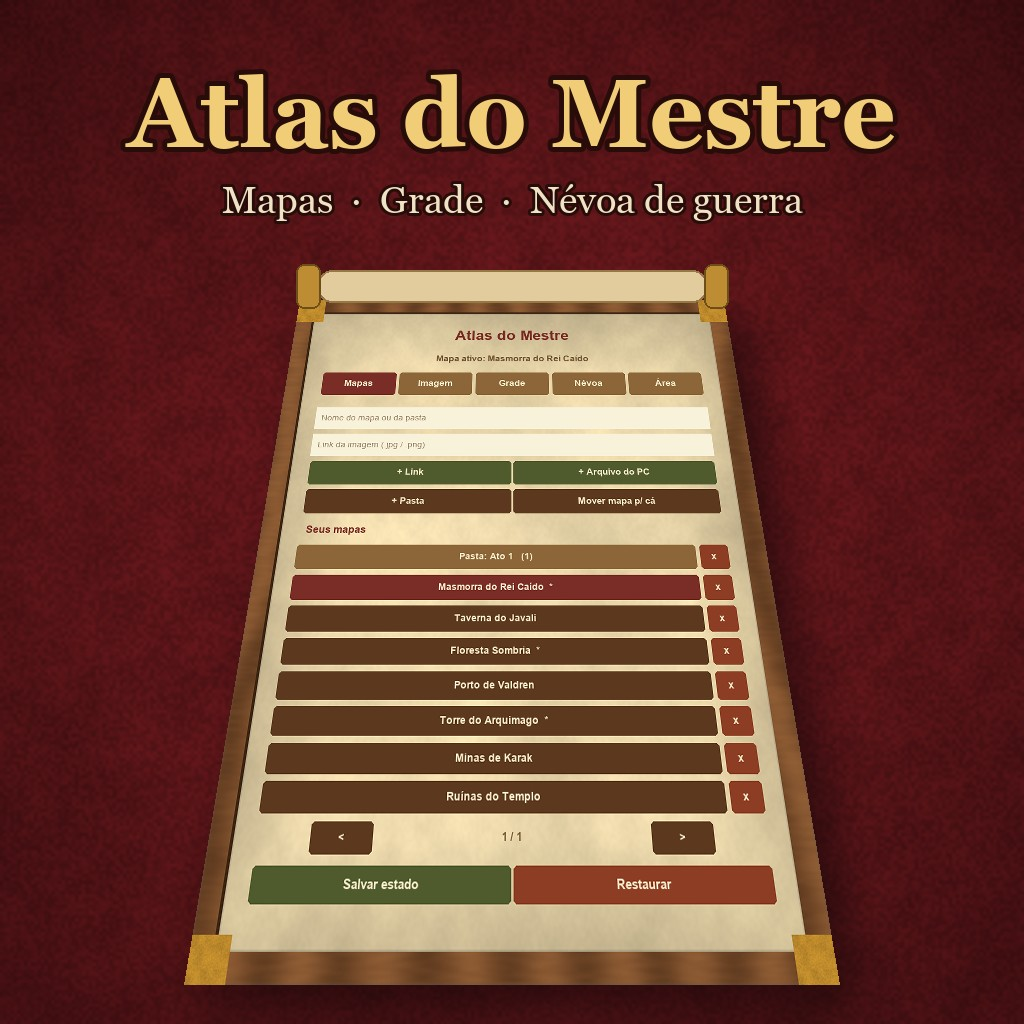
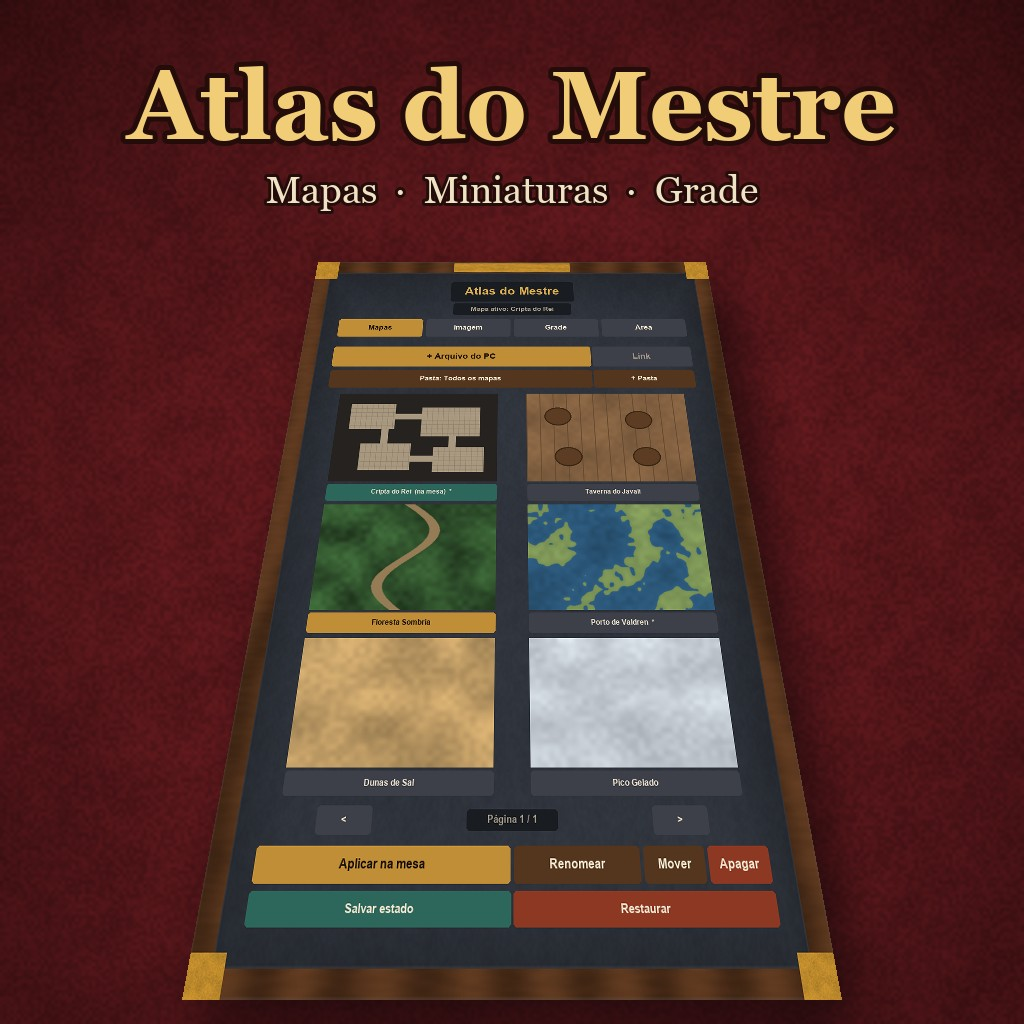
Capas da Workshop refeitas com o visual da v4 (PT e EN)

diff --git a/tools/gerar_capa.py b/tools/gerar_capa.py
@@ -1,7 +1,8 @@
-"""Gera assets/capa.jpg: a imagem de capa da Steam Workshop (1024 x 1024).
+"""Gera as capas da Steam Workshop (1024 x 1024): assets/capa.jpg (pt) e assets/cover_en.jpg (en).
 
 Uso: python tools/gerar_capa.py [pt|en]   (precisa de pillow, numpy e lupa)
-A placa é desenhada a partir do layout real de Atlas.lua (mesmos botões, cores e posições).
+A placa é desenhada a partir do layout real de Atlas.lua: mesmos botões, cores, posições e miniaturas.
+As imagens de mapa nas miniaturas são exemplos gerados aqui, só para a capa.
 """
 import sys
 from pathlib import Path
@@ -14,7 +15,7 @@ ROOT = Path(__file__).resolve().parent.parent
 LANG = sys.argv[1] if len(sys.argv) > 1 else "pt"
 SIZE = 1024
 FONTS = Path("C:/Windows/Fonts")
-rng = np.random.default_rng(3)
+INNER_W, INNER_D, RIM = 10.0, 15.0, 0.4
 
 
 def font(name, size):
@@ -24,137 +25,152 @@ def font(name, size):
         return ImageFont.load_default()
 
 
-def noise(h, w, cy, cx):
+def noise(rng, h, w, cy, cx):
     small = (rng.random((cy, cx)) * 255).astype(np.uint8)
     return np.asarray(Image.fromarray(small).resize((w, h), Image.BICUBIC), np.float32) / 255
 
 
-# ---------------------------------------------------------------- placa vista de cima
+# ---------------------------------------------------------------- mapas de exemplo
+def sample_map(seed, kind, w=360, h=240):
+    rng = np.random.default_rng(seed)
+    n = noise(rng, h, w, 5, 7) * 0.7 + noise(rng, h, w, 24, 34) * 0.3
+    if kind == "dungeon":
+        img = np.zeros((h, w, 3), np.float32) + np.array([38, 34, 32], np.float32)
+        im = Image.fromarray(img.astype(np.uint8)); d = ImageDraw.Draw(im)
+        rooms = [(30, 30, 130, 100), (190, 40, 320, 120), (60, 140, 170, 210), (220, 150, 330, 215)]
+        for x0, y0, x1, y1 in rooms:
+            d.rectangle([x0, y0, x1, y1], fill=(168, 152, 128))
+            for gx in range(x0, x1, 12):
+                d.line([gx, y0, gx, y1], fill=(140, 126, 104))
+            for gy in range(y0, y1, 12):
+                d.line([x0, gy, x1, gy], fill=(140, 126, 104))
+        for a, b in [((130, 65), (190, 65)), ((110, 100), (110, 140)), ((260, 120), (260, 150)), ((170, 180), (220, 180))]:
+            d.line([a, b], fill=(168, 152, 128), width=16)
+        return im
+    if kind == "sea":
+        land = n > 0.55
+        img = np.where(land[..., None], np.array([118, 140, 82]) * (0.8 + 0.4 * n[..., None]),
+                       np.array([46, 92, 128]) * (0.8 + 0.4 * n[..., None]))
+    elif kind == "forest":
+        img = np.array([52, 88, 48]) * (0.6 + 0.7 * n[..., None])
+        path = np.abs(np.linspace(-1, 1, w)[None, :] - 0.3 * np.sin(np.linspace(0, 6, h))[:, None]) < 0.06
+        img[path] = [150, 124, 86]
+    elif kind == "desert":
+        img = np.array([196, 160, 104]) * (0.8 + 0.35 * n[..., None])
+    elif kind == "snow":
+        img = np.array([214, 222, 230]) * (0.8 + 0.25 * n[..., None])
+    else:  # taverna / cidade
+        img = np.array([132, 98, 66]) * (0.85 + 0.25 * n[..., None])
+        im = Image.fromarray(np.clip(img, 0, 255).astype(np.uint8)); d = ImageDraw.Draw(im)
+        for i in range(0, w, 30):
+            d.line([i, 0, i, h], fill=(104, 76, 50), width=2)
+        for x0, y0 in [(40, 40), (220, 50), (60, 150), (230, 150)]:
+            d.ellipse([x0, y0, x0 + 60, y0 + 50], fill=(92, 60, 34), outline=(60, 40, 22), width=3)
+        return im
+    return Image.fromarray(np.clip(img, 0, 255).astype(np.uint8)).filter(ImageFilter.SMOOTH)
+
+
+# ---------------------------------------------------------------- placa a partir do layout real
 def board_image(px=80):
     L = lupa.LuaRuntime()
-    L.execute('''BTNS = {}
+    L.execute('''BTNS = {}; DECALS = {}
     self = { getScale=function() return {x=1,y=1,z=1} end, getCustomObject=function() return {mesh="m"} end,
-      createButton=function(t) t.kind="b"; table.insert(BTNS,t) end,
-      createInput=function(t) t.kind="i"; table.insert(BTNS,t) end,
-      clearButtons=function() BTNS={} end, clearInputs=function() end }
+      createButton=function(t) table.insert(BTNS,t) end, clearButtons=function() BTNS={} end,
+      setDecals=function(d) DECALS=d end }
     function getObjectsWithTag() return {} end
     Global={setVectorLines=function() end}; Grid={}''')
     L.execute((ROOT / "Atlas.lua").read_text(encoding="utf-8"))
     names = {
-        "pt": ["Masmorra do Rei Caído", "Taverna do Javali", "Floresta Sombria", "Porto de Valdren",
-               "Torre do Arquimago", "Minas de Karak", "Ruínas do Templo"],
-        "en": ["Fallen King's Crypt", "Boar's Head Tavern", "Shadow Forest", "Port of Valdren",
-               "Archmage's Tower", "Mines of Karak", "Temple Ruins"],
+        "pt": ["Cripta do Rei", "Taverna do Javali", "Floresta Sombria", "Porto de Valdren", "Dunas de Sal", "Pico Gelado"],
+        "en": ["King's Crypt", "Boar's Head Tavern", "Shadow Forest", "Port of Valdren", "Salt Dunes", "Frozen Peak"],
     }[LANG]
-    folder = "Ato 1" if LANG == "pt" else "Act 1"
-    L.execute(f'''D.lang = "{LANG}"
-    D.folders = {{"{folder}"}}
-    D.maps = {{ {{name="{names[0]}", url="x", fit="caber", saved={{}}}},
-               {{name="{names[1]}", url="x", fit="mesa"}},
-               {{name="{names[2]}", url="x", fit="mesa", saved={{}}}},
-               {{name="{names[3]}", url="x", fit="mesa"}},
-               {{name="{names[4]}", url="x", fit="mesa", saved={{}}}},
-               {{name="{names[5]}", url="x", fit="mesa"}},
-               {{name="{names[6]}", url="x", fit="mesa"}},
-               {{name="x", url="x", fit="mesa", folder="{folder}"}} }}
-    D.current = 1; S.tab = "mapas"; build()''')
+    maps = ",".join(f'{{name="{n}", url="u{i}", fit="mesa"{", saved={}" if i in (0, 3) else ""}}}'
+                    for i, n in enumerate(names))
+    L.execute(f'D.lang = "{LANG}"; D.maps = {{ {maps} }}; D.current = 1; S.sel = 3; S.tab = "mapas"; build()')
 
-    inner_w, inner_d, rim = 9.0, 11.8, 0.4
-    W, H = int((inner_w + 2 * rim) * px), int((inner_d + 2 * rim) * px)
     tex = Image.open(ROOT / "assets" / "atlas.png").convert("RGB")
     t = tex.width
+    leather = tex.crop((int(0.02 * t), int(0.02 * t), int(0.48 * t), int(0.48 * t)))
     wood = tex.crop((int(0.02 * t), int(0.52 * t), int(0.48 * t), int(0.98 * t)))
-    parch = tex.crop((int(0.02 * t), int(0.02 * t), int(0.48 * t), int(0.48 * t)))
     brass = tex.crop((int(0.52 * t), int(0.02 * t), int(0.98 * t), int(0.48 * t)))
-
+    W, H = int((INNER_W + 2 * RIM) * px), int((INNER_D + 2 * RIM) * px)
     img = wood.resize((W, H))
-    img.paste(parch.resize((int(inner_w * px), int(inner_d * px))), (int(rim * px), int(rim * px)))
-    d = ImageDraw.Draw(img)
-    # chanfro da moldura
-    r = int(rim * px)
-    d.rectangle([r - 4, r - 4, W - r + 3, r - 1], fill=(60, 36, 18))
-    d.rectangle([r - 4, r - 4, r - 1, H - r + 3], fill=(60, 36, 18))
+    img.paste(leather.resize((int(INNER_W * px), int(INNER_D * px))), (int(RIM * px), int(RIM * px)))
     c = int(0.62 * px)
     for x in (0, W - c):
         for y in (0, H - c):
             img.paste(brass.resize((c, c)), (x, y))
+    img.paste(brass.resize((int(3.2 * px), int(0.3 * px))), (W // 2 - int(1.6 * px), int(0.05 * px)))
+    d = ImageDraw.Draw(img)
+
+    def to_px(x, z_local):  # o script inverte o z (topo do painel = -z local)
+        return (x + INNER_W / 2 + RIM) * px, (INNER_D / 2 + RIM + z_local) * px
 
     def col(cv):
         return tuple(int(cv[i] * 255) for i in (1, 2, 3))
 
+    kinds = ["dungeon", "tavern", "forest", "sea", "desert", "snow"]
+    for k, dc in enumerate(L.eval("DECALS").values()):
+        x, zl = -dc.position[1], dc.position[3]  # decals têm o x espelhado
+        w, h = dc.scale[1] * px, dc.scale[2] * px
+        cx, cy = to_px(x, zl)
+        img.paste(sample_map(k + 3, kinds[k % len(kinds)]).resize((int(w), int(h))), (int(cx - w / 2), int(cy - h / 2)))
+
     for b in L.eval("BTNS").values():
-        x, z = b.position[1], -b.position[3]  # place() inverte o z
-        cx, cy = (x + inner_w / 2 + rim) * px, (inner_d / 2 + rim - z) * px
+        x, zl = b.position[1], b.position[3]
+        cx, cy = to_px(x, zl)
         w, h = (b.width or 0) / 450 * px, (b.height or 0) / 450 * px
-        fs = max(9, int(b.font_size / 450 * px * 0.92))
-        f = font("arialbd.ttf", fs)
-        if b.kind == "i":
-            d.rectangle([cx - w / 2, cy - h / 2, cx + w / 2, cy + h / 2], fill=col(b.color))
-            d.text((cx - w / 2 + 10, cy - fs * 0.62), b.label, fill=(150, 128, 98), font=font("arial.ttf", fs))
-            continue
         cv = b.color
-        if w > 0 and (cv[4] is None or cv[4] > 0):
+        if w > 0 and (cv[4] is None or cv[4] > 0.05) and b.label:
             d.rounded_rectangle([cx - w / 2, cy - h / 2, cx + w / 2, cy + h / 2], 5, fill=col(cv))
-        tw = d.textlength(b.label, font=f)
-        d.text((cx - tw / 2, cy - fs * 0.62), b.label, fill=col(b.font_color), font=f)
+        if b.label:
+            fs = max(9, int(b.font_size / 450 * px * 0.92))
+            f = font("arialbd.ttf", fs)
+            tw = d.textlength(b.label, font=f)
+            d.text((cx - tw / 2, cy - fs * 0.62), b.label, fill=col(b.font_color), font=f)
     return img
 
 
-# ---------------------------------------------------------------- fundo: pano da mesa
+# ---------------------------------------------------------------- fundo e composição
 def background():
-    base = np.array([96, 22, 26], np.float32)
-    n = noise(SIZE, SIZE, 300, 300) * 0.22 + noise(SIZE, SIZE, 40, 40) * 0.12 + noise(SIZE, SIZE, 6, 6) * 0.10
-    img = base * (0.80 + n)[..., None]
+    rng = np.random.default_rng(3)
+    base = np.array([92, 24, 28], np.float32)
+    n = noise(rng, SIZE, SIZE, 300, 300) * 0.22 + noise(rng, SIZE, SIZE, 40, 40) * 0.12 + noise(rng, SIZE, SIZE, 6, 6) * 0.1
+    img = base * (0.82 + n)[..., None]
     y, x = np.mgrid[0:SIZE, 0:SIZE].astype(np.float32) / SIZE
-    vig = 1 - 0.75 * ((x - 0.5) ** 2 + (y - 0.55) ** 2)
-    img *= np.clip(vig, 0.35, 1)[..., None]
+    img *= np.clip(1 - 0.8 * ((x - 0.5) ** 2 + (y - 0.58) ** 2), 0.35, 1)[..., None]
     return Image.fromarray(np.clip(img, 0, 255).astype(np.uint8))
 
 
 def perspective_coeffs(src, dst):
-    """Coeficientes para Image.transform(PERSPECTIVE) levando dst -> src."""
     m = []
     for (x, y), (u, v) in zip(dst, src):
         m.append([x, y, 1, 0, 0, 0, -u * x, -u * y])
         m.append([0, 0, 0, x, y, 1, -v * x, -v * y])
-    a = np.array(m, np.float64)
-    b = np.array(src, np.float64).reshape(8)
-    return np.linalg.solve(a, b).tolist()
+    return np.linalg.solve(np.array(m, np.float64), np.array(src, np.float64).reshape(8)).tolist()
 
 
 def main():
     canvas = background()
     board = board_image()
     bw, bh = board.size
-
-    # Placa inclinada, como vista da cadeira do mestre
-    dst = [(300, 300), (724, 300), (840, 985), (184, 985)]
+    dst = [(318, 262), (706, 262), (842, 1000), (182, 1000)]
     coeffs = perspective_coeffs([(0, 0), (bw, 0), (bw, bh), (0, bh)], dst)
     warped = board.convert("RGBA").transform((SIZE, SIZE), Image.PERSPECTIVE, coeffs, Image.BICUBIC)
-
-    # sombra no pano
     shadow = Image.new("L", (SIZE, SIZE), 0)
-    ImageDraw.Draw(shadow).polygon([(p[0] + 18, p[1] + 24) for p in dst], fill=170)
-    shadow = shadow.filter(ImageFilter.GaussianBlur(22))
-    canvas.paste((20, 6, 8), (0, 0), shadow)
+    ImageDraw.Draw(shadow).polygon([(p[0] + 16, p[1] + 22) for p in dst], fill=180)
+    canvas.paste((18, 6, 8), (0, 0), shadow.filter(ImageFilter.GaussianBlur(22)))
     canvas.paste(warped, (0, 0), warped)
 
-    # mapa enrolado na borda de cima da placa
     d = ImageDraw.Draw(canvas)
-    d.rounded_rectangle([318, 270, 706, 302], 14, fill=(226, 204, 158), outline=(150, 120, 70), width=2)
-    for x0 in (296, 704):
-        d.rounded_rectangle([x0, 264, x0 + 24, 308], 8, fill=(190, 140, 50), outline=(110, 78, 24), width=2)
-
-    # Título
     title = "Atlas do Mestre" if LANG == "pt" else "Game Master's Atlas"
-    sub = "Mapas  ·  Grade  ·  Névoa de guerra" if LANG == "pt" else "Maps  ·  Grid  ·  Fog of war"
+    sub = "Mapas  ·  Miniaturas  ·  Grade" if LANG == "pt" else "Maps  ·  Thumbnails  ·  Grid"
     ft = font("georgiab.ttf", 96 if LANG == "pt" else 84)
     fs = font("georgia.ttf", 38)
     tw = d.textlength(title, font=ft)
-    d.text(((SIZE - tw) / 2, 58), title, font=ft, fill=(242, 205, 120),
-           stroke_width=5, stroke_fill=(40, 12, 10))
+    d.text(((SIZE - tw) / 2, 50), title, font=ft, fill=(242, 205, 120), stroke_width=5, stroke_fill=(36, 12, 10))
     sw = d.textlength(sub, font=fs)
-    d.text(((SIZE - sw) / 2, 178), sub, font=fs, fill=(240, 226, 196), stroke_width=3, stroke_fill=(40, 12, 10))
+    d.text(((SIZE - sw) / 2, 168), sub, font=fs, fill=(240, 226, 196), stroke_width=3, stroke_fill=(36, 12, 10))
 
     out = ROOT / "assets" / ("capa.jpg" if LANG == "pt" else "cover_en.jpg")
     canvas.convert("RGB").save(out, quality=90, optimize=True)
